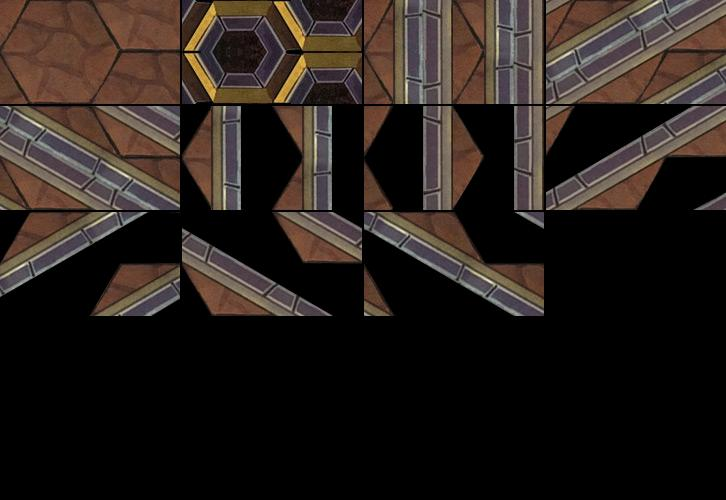
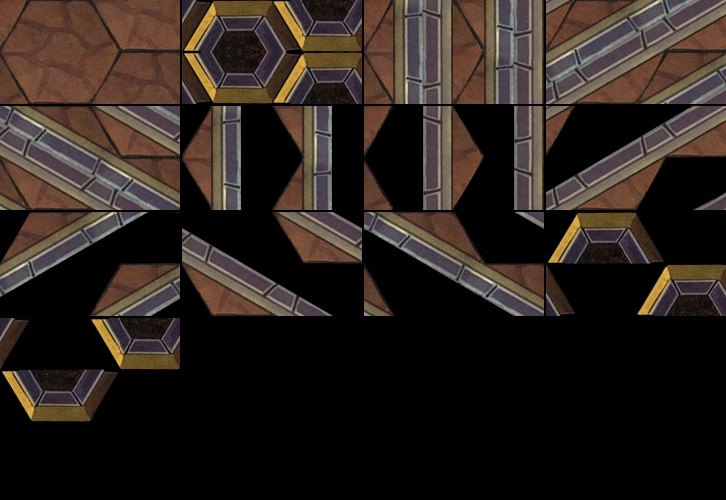
Add horizontal edges and half hexes to editor
Use half hexes bitmap tiles and black gaps to create horizontal edges.

Changed region(s): [[0.0, 0.63, 0.2727, 0.87], [0.7273, 0.42, 1.0, 0.63], [0.2424, 0.09, 0.2727, 0.12]]

diff --git a/src/lib/editor/updateWallHexDirection.js b/src/lib/editor/updateWallHexDirection.js
@@ -25,10 +25,10 @@ export const updateWallHexDirections = () => {
     for (let i = 0; i < 6; ++i) {
       adjacentInDirection = board.grid.neighborsOf(wallHex, i)
       if (adjacentInDirection.length) {
-        let wallHex = board.scenario.wallHexes.find(
+        let adjacentWallHex = board.scenario.wallHexes.find(
           hex => hex.x === adjacentInDirection[0].x && hex.y === adjacentInDirection[0].y
         )
-        if (wallHex) {
+        if (adjacentWallHex) {
           adjacentWalls.push(i)
         }
       }
@@ -42,7 +42,7 @@ export const updateWallHexDirections = () => {
       adjacentWalls.includes(1) &&
       adjacentWalls.includes(4)
     )) {
-      setWallPattern(wallHex, [2, 3], [0, 5], 5, 6, 2)
+      setWallPattern(wallHex, [2, 3], [0, 5], 6, 7, 3)
     }
 
     else if ((
@@ -53,7 +53,7 @@ export const updateWallHexDirections = () => {
       adjacentWalls.includes(2) &&
       adjacentWalls.includes(5)
     )) {
-      setWallPattern(wallHex, [0, 1], [3, 4], 7, 8, 3)
+      setWallPattern(wallHex, [0, 1], [3, 4], 8, 9, 4)
     }
 
     else if ((
@@ -64,11 +64,27 @@ export const updateWallHexDirections = () => {
       adjacentWalls.includes(0) &&
       adjacentWalls.includes(3)
     )) {
-      setWallPattern(wallHex, [1, 2], [4, 5], 9, 10, 4)
+      setWallPattern(wallHex, [1, 2], [4, 5], 10, 11, 5)
+    }
+
+    else if (
+      adjacentWalls.length === 2 &&
+      adjacentWalls.includes(3) &&
+      adjacentWalls.includes(5)
+    ) {
+      setWallPattern(wallHex, 4, 2, 0, 13)
+    }
+
+    else if (
+      adjacentWalls.length === 2 &&
+      adjacentWalls.includes(2) &&
+      adjacentWalls.includes(0)
+    ) {
+      setWallPattern(wallHex, 1, 5, 0, 12)
     }
 
     else {
-      wallHex.direction = 1
+      wallHex.direction = 2
     }
   })
 }

diff --git a/src/lib/editor/editor.js b/src/lib/editor/editor.js
@@ -24,7 +24,7 @@ import tileBitmap     from '../../scenarios/editor.jpg'
 
 
 let defaultHeight = 8
-let defaultWidth = 8
+let defaultWidth = 10
 
 export const editor = {
   blueprint: {
@@ -69,11 +69,11 @@ export const editor = {
 
     const img = new Image()
     img.onload = () => {
-      const patterns = []
+      const patterns = ['#000']
       const oCanvas = new OffscreenCanvas(180, 104)
       const oCtx = oCanvas.getContext('2d')
 
-      for (let i = 0; i <= 10; ++i) {
+      for (let i = 0; i < 13; ++i) {
         oCtx.drawImage(
           img,
           (i % 4) * 182,
@@ -88,8 +88,8 @@ export const editor = {
         patterns.push(oCtx.createPattern(oCanvas, 'repeat'))
       }
 
-      editor.style.hexes.fill = patterns[0]
-      editor.style.wallHexes.fill = hex => hex.direction ? patterns[hex.direction] : patterns[1]
+      editor.style.hexes.fill = patterns[1]
+      editor.style.wallHexes.fill = hex => patterns[hex.direction] || 2
     }
     img.src = tileBitmap
 
